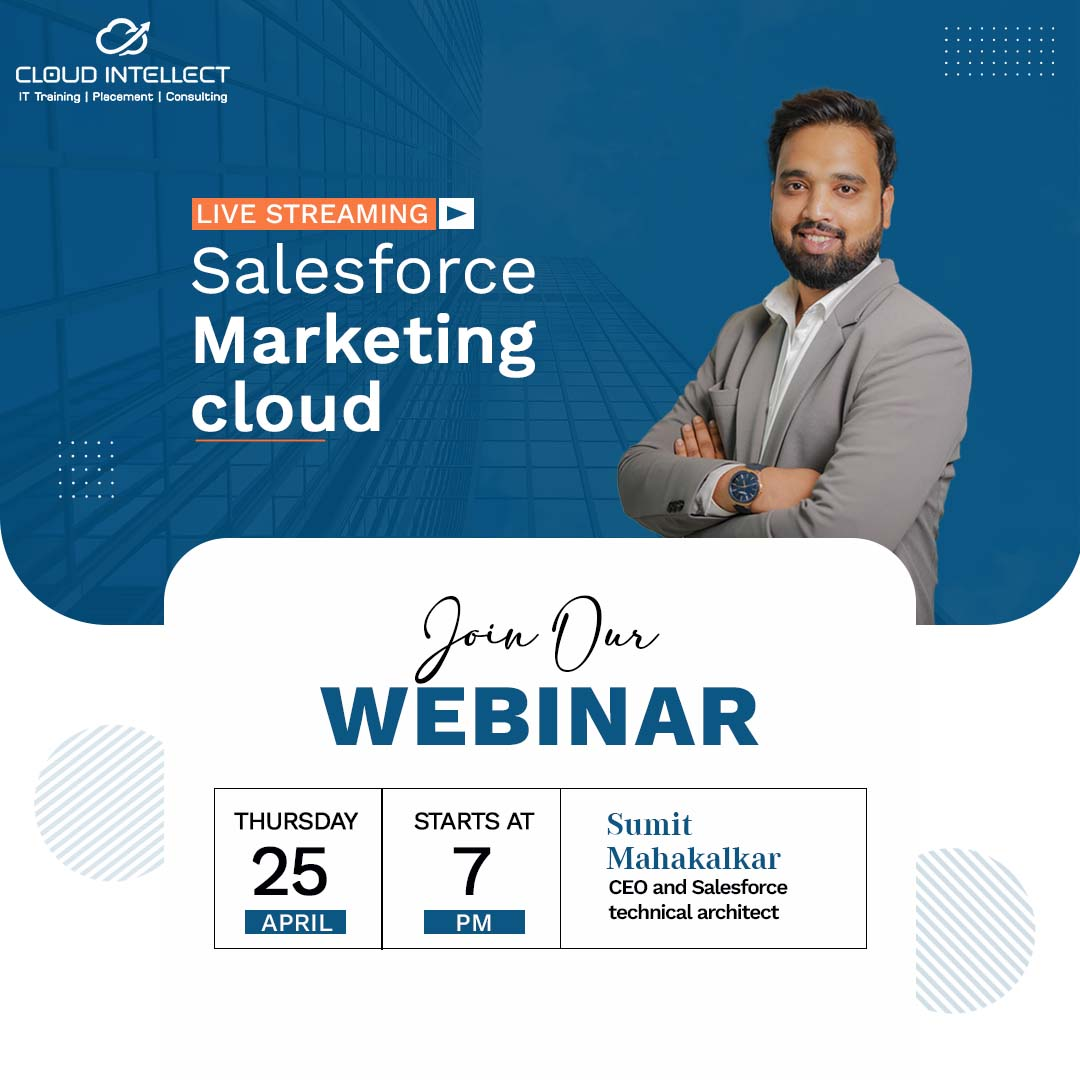
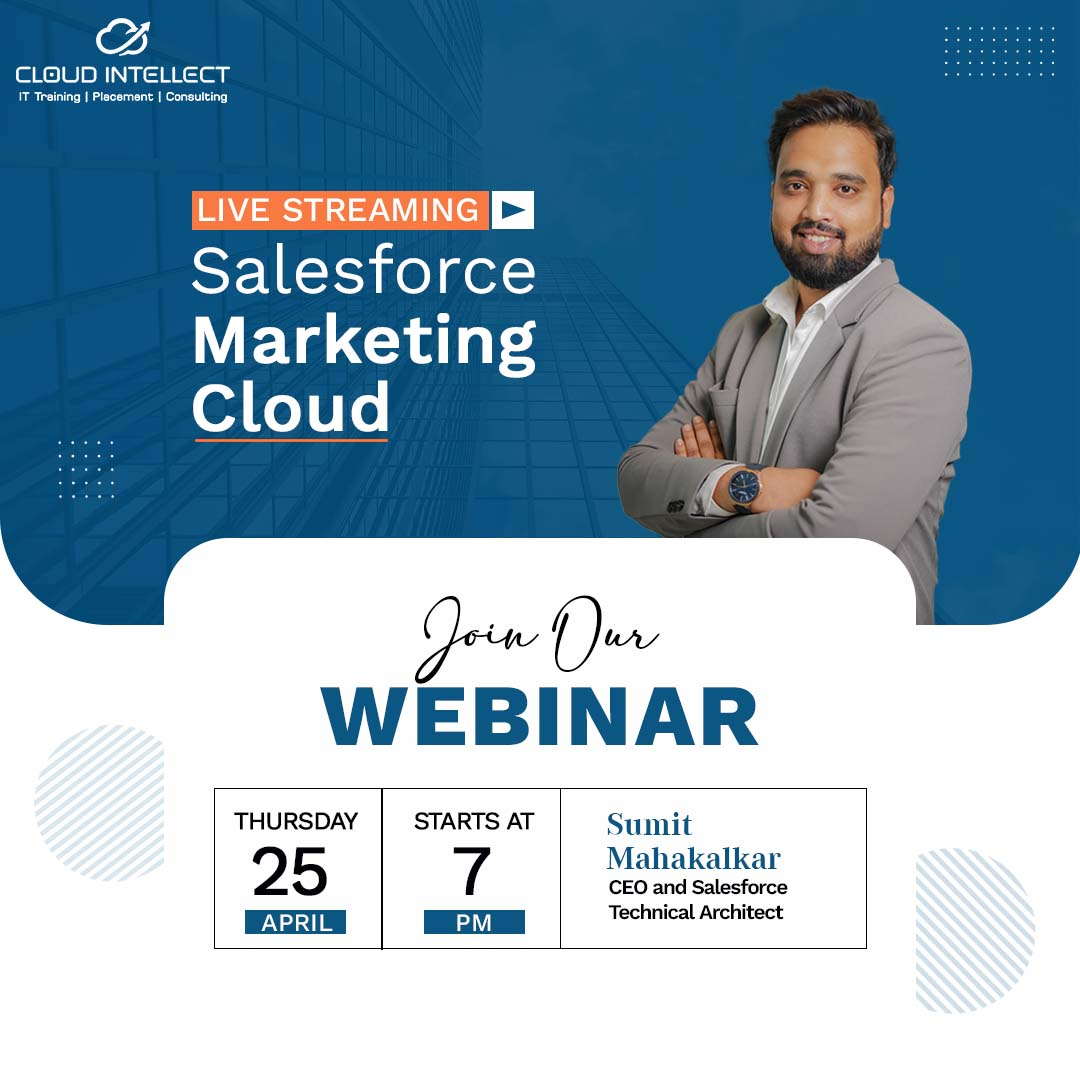
Update index.html and remove marketing.html; update images
This commit updates the index.html file with some changes in the text and removes the marketing.html file. Additionally, it includes new versions of the ciLogo.png

Changed region(s): [[0.1833, 0.1528, 0.5194, 0.2139], [0.1833, 0.3361, 0.3667, 0.4278], [0.55, 0.825, 0.7333, 0.8556]]

diff --git a/sfmc.html b/sfmc.html
@@ -114,6 +114,9 @@
         <div class="row">
           <div class="col-20 align-self-center">
             <div class="site-logo">
+              <!-- <a href="index.html"
+                ><img src="assets/img/ciLogo.png" alt=""
+              /></a> -->
               <a href="index.html"
                 ><img src="assets/img/ciLogo.png" alt=""
               /></a>
@@ -187,20 +190,22 @@
     >
       <div class="section-title">
         <h2 class="text-center hero-text">
-          How to Become a Great <b> Salesforce Developer</b>
+          How to Become a Successful <b> Salesforce Developer</b>
         </h2>
         <p class="text-center">
           Learn from the Top Salesforce Developers of the country
         </p>
         <p class=""><b>Starts</b> April 25th, 2024</p>
-        <p class=""><b>Time</b> 7PM to 8.30PM, <b> Duration</b> 1.30hrs</p>
+        <p class=""><b>Time</b> 7PM to 8.30PM</p>
+        <p class=""><b> Duration</b> 1.30hrs</p>
         <!-- <p class=""></p> -->
         <p style="">
-          Looking to boost your career as a <b> Salesforce developer</b>? Our
-          program, designed specifically for Salesforce professionals, offers
+          Looking to boost your career as a
+          <b> Salesforce Marketing Cloud Developer</b>? Our program, offers
           unique benefits such as <b> one-on-one mentorship</b>, experienced
-          instructors, and a detailed curriculum. Join our complimentary session
-          with <b>Sumit Mahakalkar</b> and discover how our course meets the
+          instructors, and a detailed curriculum for Salesforce Marketing Cloud
+          Aspirants & professionals. Join our complimentary session with
+          <b>Mr. Sumit Mahakalkar</b> and discover how our course meets the
           specific needs of those in the Salesforce field. Plus, seize the
           opportunity to win exclusive CloudIntellect goodies just for
           participating! Whether you're transitioning into or advancing within
@@ -218,10 +223,10 @@
               <span>Salesforce</span> Batch
             </h1>
             <p class="mx-auto">
-              Dive into comprehensive Salesforce training designed to propel you
-              into a successful tech career. Enroll now and take the first step
-              towards a thriving tech career with our expert-led Salesforce
-              courses.
+              Dive into comprehensive Salesforce Training designed to propel you
+              into a successful tech career. <b class=""> Enroll Now! </b>and
+              take the first step towards a thriving tech career with our
+              expert-led Salesforce courses.
             </p>
           </div>
 
@@ -308,7 +313,7 @@
           >
             <div class="single_tp">
               <!-- <span class="sc_one">01</span> -->
-              <h3>Salesforce Administration</h3>
+              <h3>Email studio</h3>
             </div>
           </div>
           <!-- END COL -->
@@ -320,7 +325,7 @@
           >
             <div class="single_tp">
               <!-- <span class="sc_two">02</span> -->
-              <h3>Salesforce Lightning</h3>
+              <h3>Journey Builder</h3>
             </div>
           </div>
           <!-- END COL -->
@@ -332,7 +337,7 @@
           >
             <div class="single_tp">
               <!-- <span class="sc_three">03</span> -->
-              <h3>Salesforce Development</h3>
+              <h3>Automation Studio</h3>
             </div>
           </div>
           <!-- END COL -->
@@ -344,7 +349,7 @@
           >
             <div class="single_tp">
               <!-- <span class="sc_four">04</span> -->
-              <h3>Salesforce Integration</h3>
+              <h3>Web studio</h3>
             </div>
           </div>
           <!-- END COL -->

diff --git a/index.html b/index.html
@@ -191,14 +191,15 @@
           Learn from the Top Salesforce Developers of the country
         </p>
         <p class=""><b>Starts</b> April 13th, 2024</p>
-        <p class=""><b>Time</b> 7PM to 8.30PM, <b> Duration</b> 1.30hrs</p>
+        <p class=""><b>Time</b> 7PM to 8.30PM</p>
+        <p class=""><b> Duration</b> 1.30hrs</p>
         <!-- <p class=""></p> -->
         <p style="">
-          Looking to boost your career as a <b> Salesforce developer</b>? Our
-          program, designed specifically for Salesforce professionals, offers
-          unique benefits such as <b> one-on-one mentorship</b>, experienced
-          instructors, and a detailed curriculum. Join our complimentary session
-          with <b>Sumit Mahakalkar</b> and discover how our course meets the
+          Looking to boost your career as a
+          <b> Salesforce Developer</b>? Our program ,offers unique benefits such
+          as <b> one-on-one mentorship</b>, experienced instructors, and a
+          detailed curriculum. Join our complimentary session with
+          <b>Mr. Sumit Mahakalkar</b> and discover how our course meets the
           specific needs of those in the Salesforce field. Plus, seize the
           opportunity to win exclusive CloudIntellect goodies just for
           participating! Whether you're transitioning into or advancing within
@@ -217,9 +218,9 @@
             </h1>
             <p class="mx-auto">
               Dive into comprehensive Salesforce training designed to propel you
-              into a successful tech career. Enroll now and take the first step
-              towards a thriving tech career with our expert-led Salesforce
-              courses.
+              into a successful tech career. <b> Enroll Now!</b> and take the
+              first step towards a thriving tech career with our expert-led
+              Salesforce courses.
             </p>
           </div>
 
